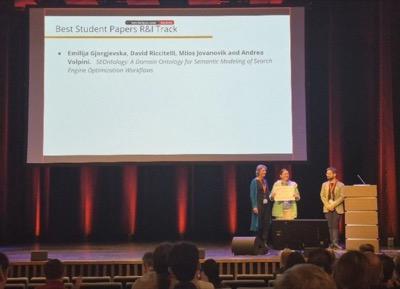
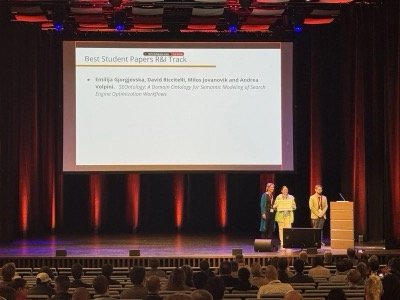
Updated photos for the SEMANTiCS award

diff --git a/news-2026.html b/news-2026.html
@@ -257,6 +257,22 @@
         </div>
         <div class="d-flex flex-wrap gap-2">
           <a href="#" data-bs-toggle="modal" data-bs-target="#imageModal" onclick="enlargeImage(this)">
+            <img src="img/posts/thumbs/2026-09-17-SEMANTiCS-Award-Card-thumb.jpg"
+                 data-full="img/posts/2026-09-17-SEMANTiCS-Award-Card.jpg"
+                 class="img-thumbnail"
+                 loading="lazy"
+                 style="width: auto; max-height: 108px;"
+                 alt="SEMANTiCS 2026 Best Student Paper Award graphic">
+          </a>
+          <a href="#" data-bs-toggle="modal" data-bs-target="#imageModal" onclick="enlargeImage(this)">
+            <img src="img/posts/thumbs/2026-09-17-SEMANTiCS-Talk-thumb.jpg"
+                 data-full="img/posts/2026-09-17-SEMANTiCS-Talk.jpg"
+                 class="img-thumbnail"
+                 loading="lazy"
+                 style="height: auto; max-width: 140px;"
+                 alt="SEOntology presentation">
+          </a>
+          <a href="#" data-bs-toggle="modal" data-bs-target="#imageModal" onclick="enlargeImage(this)">
             <img src="img/posts/thumbs/2026-09-17-SEMANTiCS-Award-thumb.jpg"
                  data-full="img/posts/2026-09-17-SEMANTiCS-Award.jpg"
                  class="img-thumbnail"
@@ -271,22 +287,6 @@
                  loading="lazy"
                  style="height: auto; max-width: 140px;"
                  alt="Best Student Paper Award certificate">
-          </a>
-          <a href="#" data-bs-toggle="modal" data-bs-target="#imageModal" onclick="enlargeImage(this)">
-            <img src="img/posts/thumbs/2026-09-17-SEMANTiCS-Talk-thumb.jpg"
-                 data-full="img/posts/2026-09-17-SEMANTiCS-Talk.jpg"
-                 class="img-thumbnail"
-                 loading="lazy"
-                 style="height: auto; max-width: 140px;"
-                 alt="SEOntology presentation">
-          </a>
-          <a href="#" data-bs-toggle="modal" data-bs-target="#imageModal" onclick="enlargeImage(this)">
-            <img src="img/posts/thumbs/2026-09-17-SEMANTiCS-Illustration-thumb.png"
-                 data-full="img/posts/2026-09-17-SEMANTiCS-Illustration.png"
-                 class="img-thumbnail"
-                 loading="lazy"
-                 style="height: auto; max-width: 140px;"
-                 alt="SEOntology illustration">
           </a>
         </div>
         <p class="text-muted mb-0"><small>September 2026</small></p>
